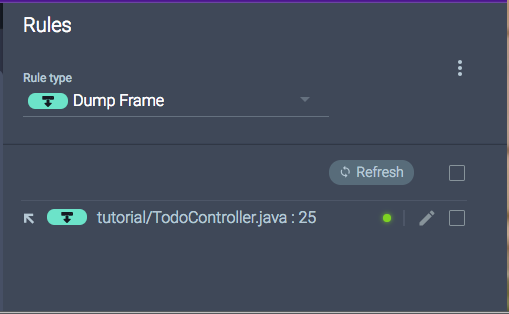
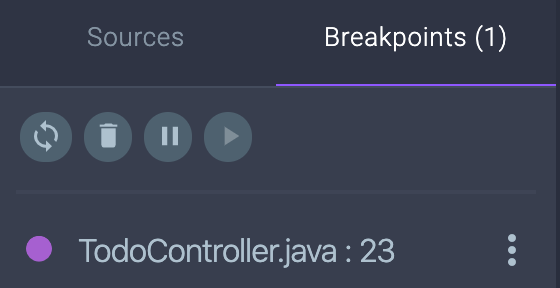
update screenshot and text in readme

diff --git a/README.md b/README.md
@@ -83,10 +83,10 @@ docker run -p 8080:8080 -e "ROOKOUT_TOKEN=[Your Rookout Token]" rookout/tutorial
 - Open the file `src/main/java/com/rookout/tutorial/TodoController.java`    
 ![TodoController.java](/img/screenshots/java-tutorial_1.png)
 
-- Add a Snapshot Breakpoint to the `addTodo` function by clicking next the the line number in the file viewer
+- Add a Breakpoint to the `addTodo` function by clicking next the the line number in the file viewer
 ![Snapshot Breakpoint](/img/screenshots/java-tutorial_2.png)
 
-- Looking at the right-hand pane **Breakpoints**, you will see the Breakpoint and the line number where you added it - it should be <span style="color: #73CD1F;">**GREEN**</span>   
+- Click on the **Breakpoints** tab in the left pane, and you will see the Breakpoint and the line number where you added it - it should be solid purple.    
     ![Valid Breakpoint](/img/screenshots/java-tutorial_3.png)
     - **If this is not the case, [check our troubleshooting guide](https://docs.rookout.com/docs/breakpoints-status.html)**
      
